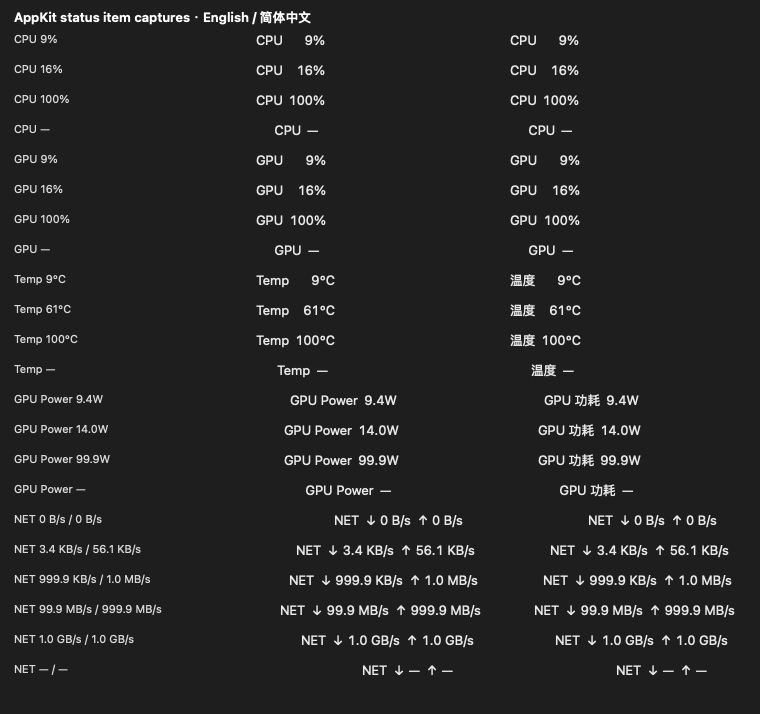
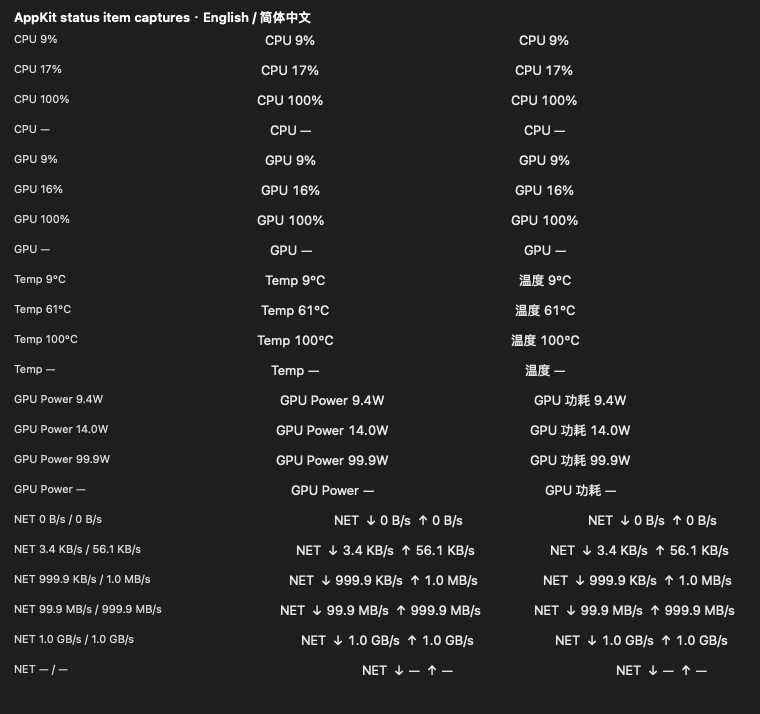
ui: tighten menu bar metric spacing

diff --git a/tests/status_width_fixture.swift b/tests/status_width_fixture.swift
@@ -35,7 +35,7 @@ func sample(_ mode: PrimaryMetric, _ a: Double?, _ b: Double? = nil) -> Telemetr
 }
 func cases(_ mode: PrimaryMetric) -> [(Double?, Double?)] {
     switch mode {
-    case .cpu: return [0,0.09,0.10,0.16,0.99,1].map { ($0,nil) } + [(nil,nil)]
+    case .cpu: return [0,0.09,0.10,0.16,0.17,0.99,1].map { ($0,nil) } + [(nil,nil)]
     case .gpu: return [0,0.09,0.16,0.99,1].map { ($0,nil) } + [(nil,nil)]
     case .temperature: return [0,9,61,99,100].map { ($0,nil) } + [(nil,nil)]
     case .gpuPower:
@@ -75,6 +75,7 @@ func componentRects(_ title: NSAttributedString, mode: PrimaryMetric, fields: [S
 var widths: [String: [String: Double]] = [:]
 var gapRanges: [String: [String: [[Double]]]] = [:]
 var slotExamples: [String: [String: [String: Double]]] = [:]
+var scalarSlots: [String: [String: Double]] = [:]
 var checks = 0
 let visualDirectory = URL(fileURLWithPath: ".build/status-visual")
 try! FileManager.default.createDirectory(at: visualDirectory, withIntermediateDirectories: true)
@@ -83,13 +84,16 @@ for language in AppLanguage.allCases {
     var languageWidths: [String: Double] = [:]
     var languageGaps: [String: [[Double]]] = [:]
     var languageSlots: [String: [String: Double]] = [:]
+    var languageScalarSlots: [String: Double] = [:]
     for mode in PrimaryMetric.allCases {
         let layout = StatusTitleLayout(metric: mode, font: button.font!)
         item.length = layout.length
-        RunLoop.main.run(until: Date().addingTimeInterval(0.15))
+        RunLoop.main.run(until: Date().addingTimeInterval(0.4))
         var expectedFrame: CGFloat?
         var expectedNeighborX: CGFloat?
-        var expectedScalarEnd: CGFloat?
+        var expectedTargetX: CGFloat?
+        var expectedScalarStart: CGFloat?
+        var expectedScalarGap: CGFloat?
         var endsByShape: [String: [CGFloat]] = [:]
         var range: [[Double]] = []
         for (index, values) in cases(mode).enumerated() {
@@ -107,10 +111,18 @@ for language in AppLanguage.allCases {
             else { expectedFrame = frame }
             let neighborX = neighbor.button!.window!.convertToScreen(
                 neighbor.button!.convert(neighbor.button!.bounds, to: nil)).minX
-            if let expectedNeighborX {
+            let targetX = button.window!.convertToScreen(button.convert(button.bounds, to: nil)).minX
+            if let expectedNeighborX, let expectedTargetX {
                 require(abs(neighborX-expectedNeighborX) < 0.5,
-                    "neighboring menu item moved: \(language.rawValue) \(mode) \(fields) \(expectedNeighborX) -> \(neighborX)")
-            } else { expectedNeighborX = neighborX }
+                    "neighbor changed screen position: \(language.rawValue) \(mode) \(fields) " +
+                    "item \(expectedTargetX) -> \(targetX), neighbor \(expectedNeighborX) -> \(neighborX)")
+                require(abs((neighborX-targetX)-(expectedNeighborX-expectedTargetX)) < 0.5,
+                    "neighbor moved relative to item: \(language.rawValue) \(mode) \(fields) " +
+                    "item \(expectedTargetX) -> \(targetX), neighbor \(expectedNeighborX) -> \(neighborX)")
+            } else {
+                expectedNeighborX = neighborX
+                expectedTargetX = targetX
+            }
             let rects = componentRects(title, mode: mode, fields: fields)
             require(rects.first!.minX >= 0 && rects.last!.maxX <= frame, "text exceeded status item")
             let gaps = zip(rects, rects.dropFirst()).map { $1.minX - $0.maxX }
@@ -127,15 +139,16 @@ for language in AppLanguage.allCases {
                 require(gaps[2] >= 5 && gaps[2] <= 9, "RX/TX gap outside compact range: \(gaps)")
                 require(gaps[3] >= 1 && gaps[3] <= 5, "TX arrow/value gap outside compact range: \(gaps)")
             } else {
-                require(gaps[0] >= 3 && gaps[0] <= 24, "label/value gap outside compact range: \(gaps)")
+                require(gaps[0] >= 2 && gaps[0] <= 5, "label/value gap outside compact range: \(gaps)")
+                if let expectedScalarStart {
+                    require(abs(rects[1].minX-expectedScalarStart) < 1, "scalar value start shifted")
+                } else { expectedScalarStart = rects[1].minX }
+                if let expectedScalarGap {
+                    require(abs(gaps[0]-expectedScalarGap) < 1, "scalar label/value gap changed")
+                } else { expectedScalarGap = gaps[0] }
             }
             let shape = fields.map { String($0.map { $0 >= "0" && $0 <= "9" ? "8" : $0 }) }.joined(separator: "|")
             let ends = fields.count == 2 ? [rects[2].maxX, rects[4].maxX] : [rects[1].maxX]
-            if (mode == .cpu || mode == .gpu || mode == .temperature), fields[0] != "—" {
-                if let expectedScalarEnd {
-                    require(abs(ends[0]-expectedScalarEnd) < 1, "fixed scalar numeric slot shifted")
-                } else { expectedScalarEnd = ends[0] }
-            }
             if let previous = endsByShape[shape] {
                 require(zip(previous,ends).allSatisfy { abs($0-$1) < 1 }, "same-shape value alignment shifted")
             } else { endsByShape[shape] = ends }
@@ -151,24 +164,23 @@ for language in AppLanguage.allCases {
         let name = String(describing: mode)
         languageWidths[name] = Double(layout.length)
         languageGaps[name] = range
-        let templates: [String]
-        switch mode {
-        case .cpu, .gpu: templates = ["9%", "16%", "100%", "—"]
-        case .temperature: templates = ["9°C", "61°C", "100°C", "—"]
-        case .gpuPower: templates = ["9.4W", "14.0W", "99.9W", "—"]
-        case .network: templates = ["0 B/s", "3.4 KB/s", "56.1 KB/s", "999.9 KB/s", "999.9 MB/s", "1.0 GB/s", "—"]
+        if mode != .network { languageScalarSlots[name] = Double(layout.scalarSlotWidth) }
+        if mode == .network {
+            let templates = ["0 B/s", "3.4 KB/s", "56.1 KB/s", "999.9 KB/s", "999.9 MB/s", "1.0 GB/s", "—"]
+            languageSlots[name] = Dictionary(uniqueKeysWithValues: templates.map { ($0,Double(layout.slotWidth(for:$0))) })
         }
-        languageSlots[name] = Dictionary(uniqueKeysWithValues: templates.map { ($0,Double(layout.slotWidth(for:$0))) })
     }
     widths[language.rawValue] = languageWidths
     gapRanges[language.rawValue] = languageGaps
     slotExamples[language.rawValue] = languageSlots
+    scalarSlots[language.rawValue] = languageScalarSlots
 }
 NSStatusBar.system.removeStatusItem(item)
 NSStatusBar.system.removeStatusItem(neighbor)
 let output: [String: Any] = ["result":"PASS","checks":checks,"widths_pt":widths,
                              "gap_ranges_pt":gapRanges,"slot_widths_pt":slotExamples,
-                             "fixed_frame":true,"neighbor_stable":true,
+                             "fixed_scalar_slot_widths_pt":scalarSlots,
+                             "fixed_frame":true,"neighbor_stable":true,"neighbor_relative_stable":true,
                              "compact_component_gaps":true,"same_shape_alignment":true]
 let bytes = try! JSONSerialization.data(withJSONObject: output, options: [.sortedKeys])
 print(String(data: bytes, encoding: .utf8)!)

diff --git a/app/ComputeMonitor.swift b/app/ComputeMonitor.swift
@@ -189,7 +189,8 @@ struct StatusTitleLayout {
     private let maximumSlot: CGFloat
     private let slotWidths: [String: CGFloat]
     private let inset: CGFloat = 8
-    private let labelGap: CGFloat = 5
+    private let labelGap: CGFloat = 3
+    private let outerScalarGap: CGFloat = 5 // Preserve the existing fixed item width.
     private let networkLabelGap: CGFloat = 6
     private let arrowGap: CGFloat = 3
     private let networkGroupGap: CGFloat = 7
@@ -242,9 +243,11 @@ struct StatusTitleLayout {
         let contentWidth = metric == .network
             ? prefixWidth + networkLabelGap + downWidth + arrowGap + maximumSlot +
               networkGroupGap + upWidth + arrowGap + maximumSlot
-            : prefixWidth + labelGap + maximumSlot
+            : prefixWidth + outerScalarGap + maximumSlot
         length = ceil(contentWidth + 2 * inset)
     }
+
+    var scalarSlotWidth: CGFloat { maximumSlot }
 
     func slotWidth(for value: String) -> CGFloat {
         slotWidths[Self.shape(value)] ?? maximumSlot
@@ -252,8 +255,7 @@ struct StatusTitleLayout {
 
     func attributedTitle(in snapshot: TelemetrySnapshot) -> NSAttributedString {
         let fields = metric.statusFields(in: snapshot)
-        let firstSlot = (metric == .cpu || metric == .gpu || metric == .temperature) && fields[0] != "—"
-            ? maximumSlot : slotWidth(for: fields[0])
+        let firstSlot = metric == .network ? slotWidth(for: fields[0]) : maximumSlot
         let secondSlot = metric == .network ? slotWidth(for: fields[1]) : 0
         let groupWidth = metric == .network
             ? prefixWidth + networkLabelGap + downWidth + arrowGap + firstSlot +
@@ -275,8 +277,8 @@ struct StatusTitleLayout {
                 NSTextTab(textAlignment: .right, location: secondEnd)
             ]
         } else {
-            paragraph.tabStops = [NSTextTab(textAlignment: .right,
-                location: start + prefixWidth + labelGap + firstSlot)]
+            paragraph.tabStops = [NSTextTab(textAlignment: .left,
+                location: start + prefixWidth + labelGap)]
         }
         let text = metric == .network
             ? "\(prefix)\t↓\t\(fields[0])\t↑\t\(fields[1])"

diff --git a/tests/make-status-visual.swift b/tests/make-status-visual.swift
@@ -2,7 +2,7 @@
 import AppKit
 
 let rows: [(String, String, Int)] = [
-    ("CPU 9%", "cpu", 1), ("CPU 16%", "cpu", 3), ("CPU 100%", "cpu", 5), ("CPU —", "cpu", 6),
+    ("CPU 9%", "cpu", 1), ("CPU 17%", "cpu", 4), ("CPU 100%", "cpu", 6), ("CPU —", "cpu", 7),
     ("GPU 9%", "gpu", 1), ("GPU 16%", "gpu", 2), ("GPU 100%", "gpu", 4), ("GPU —", "gpu", 5),
     ("Temp 9°C", "temperature", 1), ("Temp 61°C", "temperature", 2),
     ("Temp 100°C", "temperature", 4), ("Temp —", "temperature", 5),

diff --git a/docs/MINIMAL_V01_REPORT.md b/docs/MINIMAL_V01_REPORT.md
@@ -64,9 +64,9 @@ This report records the scope recovery, bilingual UI, Network candidate, and loc
 
 The first fixed-width layout removed the external menu-bar jump but right-aligned each value against a maximum slot. The Network maximum included the scientific-notation fallback, so unused slot width appeared *between* `↓`/`↑` and their readings. Short CPU values and unavailable states showed the same problem on a smaller scale.
 
-The corrected `StatusTitleLayout` still measures and caches ten metric/language layouts and applies a fixed `NSStatusItem.length` only on initialization, metric selection, or language selection. It places a compact group in the center of that fixed container. AppKit tabs separately position the label, arrows, and right-aligned numeric slots; the unused container width stays outside the group. CPU/GPU and temperature keep a fixed `100%`/`100°C` slot; unavailable uses a compact dash slot. GPU Power and Network select a premeasured slot by displayed digit-count/unit shape. This bounds internal movement at format transitions while keeping arrows next to actual values. Numeric text retains the system monospaced-digit font. Per-tick work is a cached width lookup, small coordinate arithmetic, and an attributed-title/accessibility update; there is no glyph/template measurement, timer, sampler, observer, polling, collector cadence change, network-backend change, or SQLite change on that path.
+`StatusTitleLayout` measures and caches ten metric/language layouts and applies a fixed `NSStatusItem.length` only on initialization, metric selection, or language selection. AppKit tabs position the label, arrows, and numeric slots inside that container. The Network path retains its right-aligned RX/TX slots selected by displayed digit-count/unit shape. The scalar path now uses one fixed slot per metric with its value leading-aligned, as detailed below. Numeric text retains the system monospaced-digit font. Per-tick work is a cached width lookup, small coordinate arithmetic, and an attributed-title/accessibility update; there is no glyph/template measurement, timer, sampler, observer, polling, collector cadence change, network-backend change, or SQLite change on that path.
 
-Requested gaps were 5 pt for a scalar label/value and, for Network, 6 pt `NET→↓`, 3 pt arrow→value, 7 pt RX→`↑`, and 3 pt `↑`→TX. Real AppKit glyph geometry measured scalar visible gaps of 5.6–22.6 pt across both languages; the upper end is the intentional one/two missing digits inside a fixed `100%` or `100°C` slot. GPU Power measured 5.7–6.5 pt. Network measured 6.6 pt, 3.9–4.9 pt, 7.0 pt, and 3.9–4.8 pt respectively. The sampled slot widths were CPU/GPU 37 pt, temperature 40 pt, GPU Power 33 pt for `9.4W` and 41 pt for `14.0W`/`99.9W`; Network 31 pt for `0 B/s`, 52 pt for `3.4 KB/s`, 60 pt for `56.1 KB/s`, 68 pt for `999.9 KB/s`, 71 pt for `999.9 MB/s`, and 53 pt for `1.0 GB/s`. The unavailable dash slot is 12 pt. Network promotes rounded unit boundaries and supports B/s through EB/s with a scientific fallback for unrealistic higher rates.
+In `2fc1ffc`, the nominal scalar label gap was 5 pt, but right alignment inside the numeric slot put unused width *before* short values. AppKit measured 5.6–22.6 pt visible gaps for CPU/GPU/temperature and 5.7–6.5 pt for GPU Power. Network's requested gaps remain 6 pt `NET→↓`, 3 pt arrow→value, 7 pt RX→`↑`, and 3 pt `↑`→TX; AppKit measured 6.6 pt, 3.9–4.9 pt, 7.0 pt, and 3.9–4.8 pt respectively. Its sampled RX/TX slot widths remain 31 pt for `0 B/s`, 52 pt for `3.4 KB/s`, 60 pt for `56.1 KB/s`, 68 pt for `999.9 KB/s`, 71 pt for `999.9 MB/s`, and 53 pt for `1.0 GB/s`. Network promotes rounded unit boundaries and supports B/s through EB/s with a scientific fallback for unrealistic higher rates.
 
 The long Network A/B in AA predates this UI-only change; its collector and timer paths were not modified for AE.
 
@@ -77,7 +77,9 @@ The real AppKit status-item test measured these fixed external widths in points:
 | English | 85 | 86 | 95 | 169 | 249 |
 | 简体中文 | 85 | 86 | 87 | 157 | 249 |
 
-Across 82 boundary, unavailable, and scientific-fallback values, each metric/language pair kept the exact same `statusItem.length` and button frame width; an adjacent real status item stayed at the same screen position on every value change. Same-shape values kept numeric slot endpoints within one point. The exact requested CPU, GPU, temperature, GPU Power, and Network examples were rendered through a real `NSStatusBarButton` in both languages and visually inspected in [the contact sheet](results/status-visual.png), including all unavailable states. The complete graphical app smoke passed `fixed_width=true`, `chinese=true`, and `english=true` while switching modes/languages and injecting representative live-value changes; its review-only counter confirmed no layout measurement during those value updates or when revisiting a cached pair.
+Across 84 boundary, unavailable, and scientific-fallback values, each metric/language pair kept the exact same `statusItem.length` and button frame width; an adjacent real status item stayed at the same screen position after mode-change layout settled and throughout every value change. Same-shape values kept numeric slot endpoints within one point. The requested CPU, GPU, temperature, GPU Power, and Network examples were rendered through a real `NSStatusBarButton` in both languages and visually inspected in [the contact sheet](results/status-visual.png), including all unavailable states. The complete graphical app smoke passed `fixed_width=true`, `chinese=true`, and `english=true` while switching modes/languages and injecting representative live-value changes; its review-only counter confirmed no layout measurement during those value updates or when revisiting a cached pair.
+
+**Scalar-spacing follow-up.** CPU/GPU/Temp had still looked like `CPU      17%` because their fixed `100%`/`100°C` slots right-aligned shorter values. GPU Power also right-aligned values in a shape-sized slot. The scalar tab is now leading-aligned after a nominal 3 pt label gap, with the remainder of a fixed numeric slot on the value's *right*. Scalar slot widths are CPU/GPU 37 pt, temperature 40 pt, and GPU Power 79 pt, including its scientific fallback. The existing outer widths in the table above are unchanged. Measured English label→value gaps were CPU 3.08 pt, GPU 3.68 pt, Temp 3.66 pt, and GPU Power 3.79 pt; Simplified Chinese measured CPU 3.08 pt, GPU 3.68 pt, 温度 3.20 pt, and GPU 功耗 3.30 pt. The gap and value start stayed fixed across each scalar metric's tested values, including unavailable and power fallback; no text clipped. Real AppKit captures show `CPU 17%`, `GPU 16%`, `Temp 61°C`/`温度 61°C`, and GPU Power in both languages visibly tighter than the preceding contact sheet. The Network branch, formatter, RX/TX slots, 249 pt outer width, and measured component gaps are unchanged; the before/after JSON values match exactly. This UI-only follow-up added no timer, polling, observer, collector, SQLite work, or cadence change.
 
 ## Evidence
 
@@ -87,7 +89,7 @@ Across 82 boundary, unavailable, and scientific-fallback values, each metric/lan
 - `docs/results/network-latency-disabled.json` and `docs/results/network-latency-enabled.json`: supplemental 60-tick collector timing in each phase.
 - `docs/results/migration-checks.json`: copy migrations and malformed/future-schema rejection.
 - `docs/results/real-db-v4-check.json`: read-only integrity and row-preservation comparison against both real backups.
-- `docs/results/status-width.json`: 82-case real AppKit status-item width, neighboring-item stability, component gaps, and slot-width check.
+- `docs/results/status-width.json`: 84-case real AppKit status-item width, neighboring-item stability, component gaps, and slot-width check.
 - `docs/results/status-visual.png`: inspected English/Chinese contact sheet from real AppKit status-button bitmap captures for every requested visual example.
 - `docs/results/network-process-observations.jsonl` and `docs/results/network-db-size.jsonl`: external process and database snapshots.
 - `tests/run-history-checks.py`, `tests/run-migration-checks.py`, `tests/run-network-checks.sh`, `tests/run-localization-checks.sh`, `app/ui-smoke.sh`, and `tests/run-popover-layout.sh`: focused repeatable checks.

diff --git a/tests/README.md b/tests/README.md
@@ -128,11 +128,11 @@ from persisting across processes. `sh app/ui-smoke.sh` verifies both languages
 in an AppKit popover, live telemetry, five menu choices, fixed status-item
 width, and layout bounds. It needs an ordinary graphical user session.
 
-`sh tests/run-status-width.sh` creates actual AppKit status items and checks 82
+`sh tests/run-status-width.sh` creates actual AppKit status items and checks 84
 boundary and unavailable values across all five modes in English and Simplified
 Chinese. For each metric-language pair it checks fixed item/button width, a
-neighboring item's screen position, component gaps, and same-shape numeric
-alignment. It saves per-case button bitmaps under `.build/status-visual/` and
+neighboring item's screen position, component gaps, fixed scalar value starts,
+and same-shape numeric alignment. It saves per-case button bitmaps under `.build/status-visual/` and
 prints JSON; use `sh tests/run-status-width.sh > docs/results/status-width.json`
 to save the measurements. Run
 `swiftc -O -target arm64-apple-macos13.0 -module-cache-path "$PWD/.build/ModuleCache" -framework AppKit tests/make-status-visual.swift -o .build/make-status-visual`
